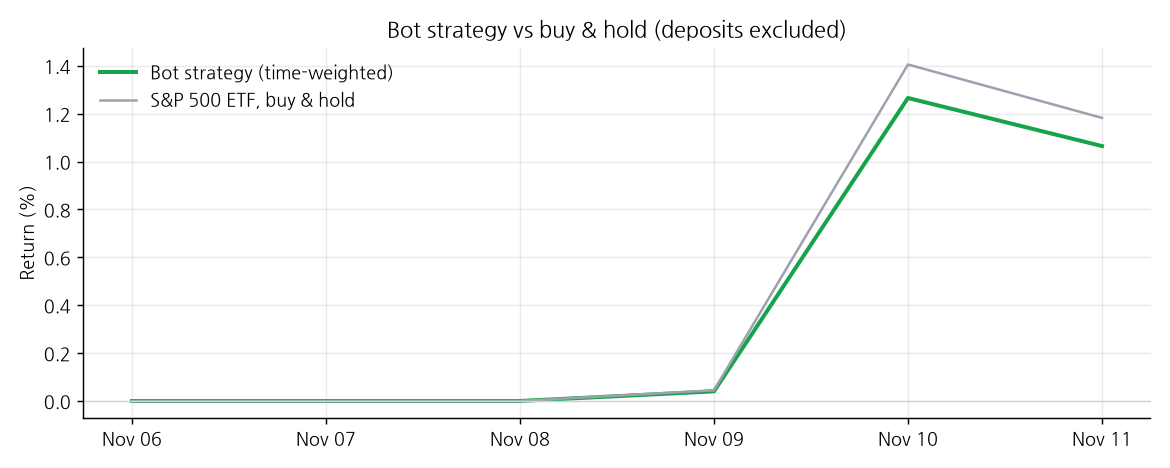
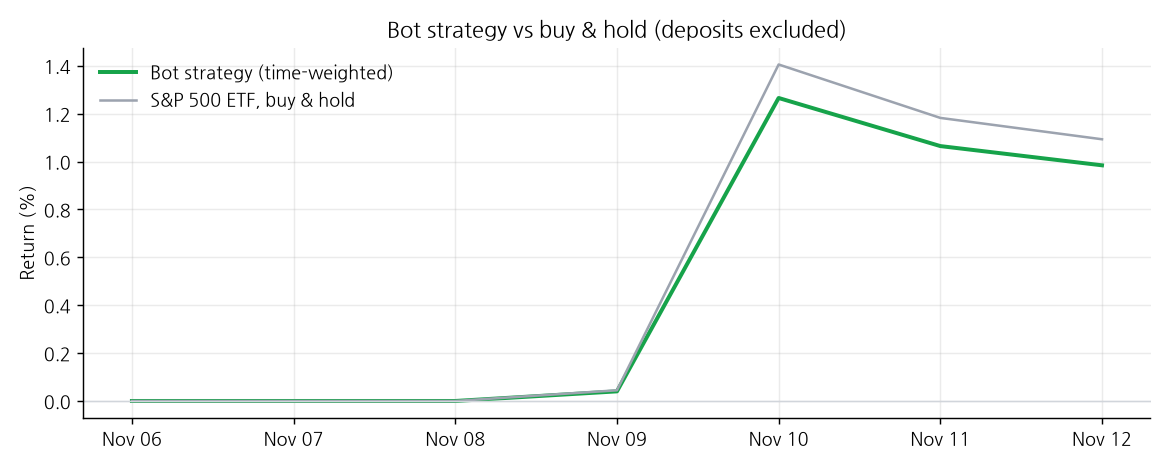
KRW 100k challenge 2026-11-12: 100,550 KRW

diff --git a/README.md b/README.md
@@ -55,14 +55,14 @@ Official 2026 Unity Game Jam entry (theme: *Lucky Number*) · solo · Unity 6 ·
 
 | | |
 |---|---|
-| 💰 Account value | **₩100,630** (≈$75) |
-| 🏦 Total deposited | ₩99,570 (≈$74) |
-| 📈 Profit / loss | **+₩1,060** (≈$1) (+1.06% of deposits) |
-| ⚙ Bot strategy return (deposits excluded) | +1.06% |
-| 📊 Just holding the S&P 500 ETF, same period | +1.18% |
-| 🆚 Same deposits, just holding the S&P 500 ETF | ₩100,747 (≈$75) |
+| 💰 Account value | **₩100,550** (≈$75) |
+| 🏦 Total deposited | ₩99,570 (≈$75) |
+| 📈 Profit / loss | **+₩980** (≈$1) (+0.98% of deposits) |
+| ⚙ Bot strategy return (deposits excluded) | +0.98% |
+| 📊 Just holding the S&P 500 ETF, same period | +1.09% |
+| 🆚 Same deposits, just holding the S&P 500 ETF | ₩100,658 (≈$75) |
 | 🧭 Market regime | 🟢 BULL — S&P 500 above its 200-day average → 100% S&P 500 ETF |
-| 💱 USD/KRW used above | **1,336.56** (market close 2026-11-11, updated 2026-11-12 07:30 KST) |
+| 💱 USD/KRW used above | **1,333.88** (market close 2026-11-12, updated 2026-11-12 16:21 KST) |
 
 ![USD/KRW live](https://img.shields.io/badge/dynamic/json?url=https%3A%2F%2Fopen.er-api.com%2Fv6%2Flatest%2FUSD&query=%24.rates.KRW&label=USD%2FKRW%20now&prefix=%E2%82%A9&color=0a7&cacheSeconds=3600)
 
@@ -74,8 +74,8 @@ Official 2026 Unity Game Jam entry (theme: *Lucky Number*) · solo · Unity 6 ·
 
 | ETF | Shares | Price | Value | Weight |
 |---|---|---|---|---|
-| 379800 · KODEX 미국S&P500 (S&P 500 ETF) | 4 | ₩22,680 | ₩90,720 | 90.2% |
-| Cash | | | ₩9,910 | 9.8% |
+| 379800 · KODEX 미국S&P500 (S&P 500 ETF) | 4 | ₩22,660 | ₩90,640 | 90.1% |
+| Cash | | | ₩9,910 | 9.9% |
 
 <details><summary>How it works</summary>
 
@@ -92,7 +92,7 @@ Official 2026 Unity Game Jam entry (theme: *Lucky Number*) · solo · Unity 6 ·
 
 If you enjoy following this, you can [sponsor me](https://github.com/sponsors/chomuscleguy). Donations are **support for the project only** — they are not invested in this account and carry no returns, shares or refunds.
 
-<sub>Not investment advice. Personal experiment. Last updated 2026-11-12 07:30 KST.</sub>
+<sub>Not investment advice. Personal experiment. Last updated 2026-11-12 16:21 KST.</sub>
 
 <!-- CHALLENGE:END -->
 
@@ -105,15 +105,15 @@ If you enjoy following this, you can [sponsor me](https://github.com/sponsors/ch
 | Strategy | Since | Bot return | Benchmark | vs benchmark | Regime |
 |---|---|---|---|---|---|
 | **🇺🇸 US stocks** — 10 high-conviction stocks from top investors' 13F filings | 2026-11-05 | **+5.90%** | S&P 500 (SPY) +3.66% | +2.24% | 🟢 BULL |
-| **🇰🇷 Korean stocks** — Top 10 holdings of Korea's National Pension Service (5%+ stakes) | 2026-11-06 | **+0.54%** | KOSPI 200 (KODEX 200) +7.01% | -6.47% | 🔴 BEAR |
+| **🇰🇷 Korean stocks** — Top 10 holdings of Korea's National Pension Service (5%+ stakes) | 2026-11-06 | **+0.41%** | KOSPI 200 (KODEX 200) +6.63% | -6.22% | 🔴 BEAR |
 
 ![Paper-trading returns](paper/returns.png)
 
 - 🇺🇸 US stocks top holdings: AMD 12%, AVGO 10%, TSLA 10%, AAPL 10%, AMZN 10%, LLY 10% · cash 2%
-- 🇰🇷 Korean stocks top holdings: KODEX 단기채권 49%, 하나금융지주 5%, 신한지주 5%, 현대모비스 5%, 삼성SDI 5% · cash 14%
+- 🇰🇷 Korean stocks top holdings: KODEX 단기채권 49%, 하나금융지주 5%, 신한지주 5%, 현대모비스 5%, SK스퀘어 5% · cash 14%
 
 Full dashboard: [portfolio-dashboard](https://github.com/chomuscleguy/portfolio-dashboard)
 
-<sub>Simulated account, returns only (no amounts). Not investment advice. Updated 2026-11-12 07:30 KST.</sub>
+<sub>Simulated account, returns only (no amounts). Not investment advice. Updated 2026-11-12 16:21 KST.</sub>
 
 <!-- PAPER:END -->
